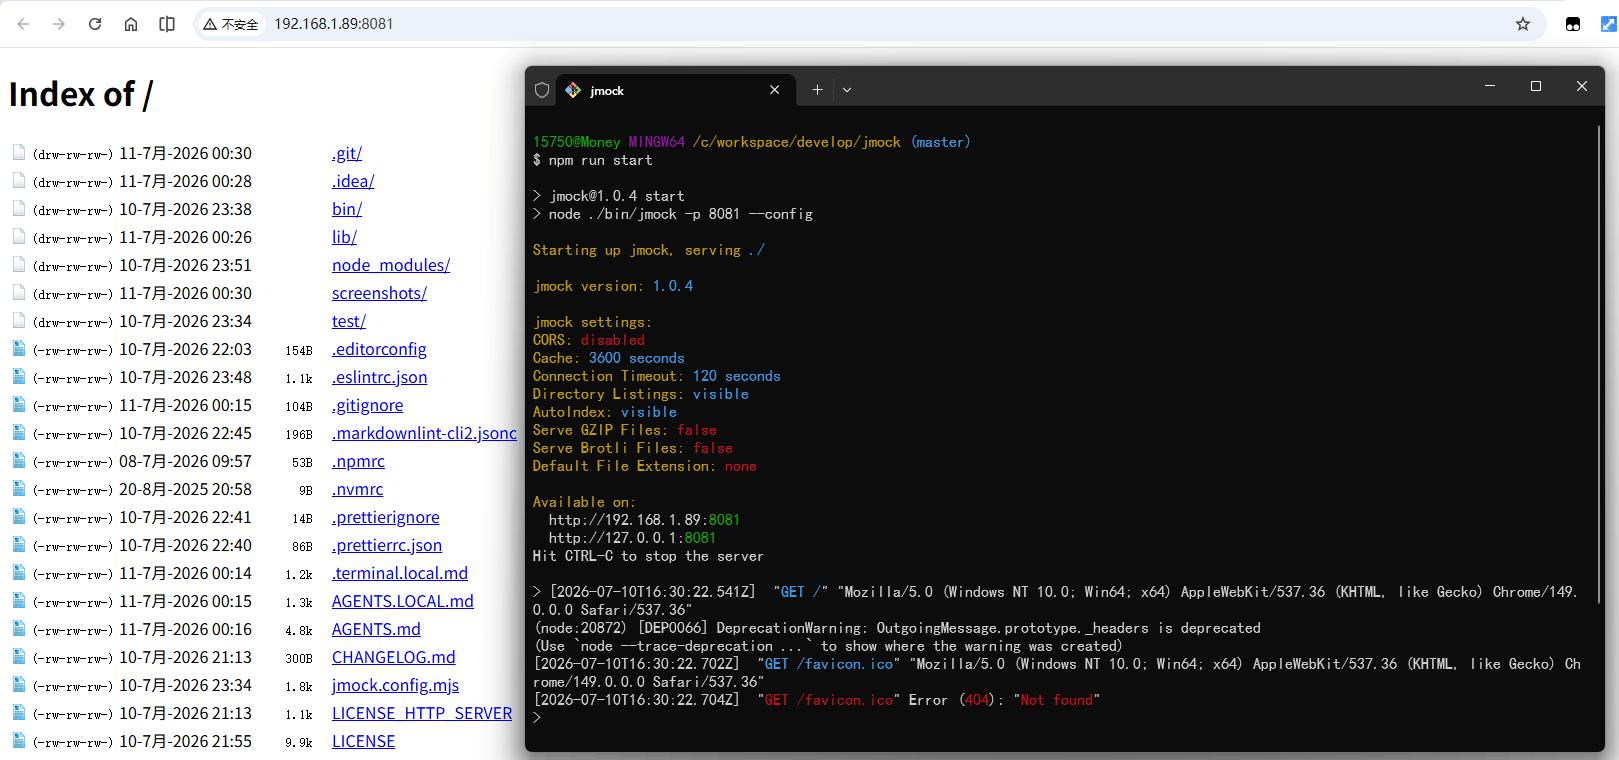
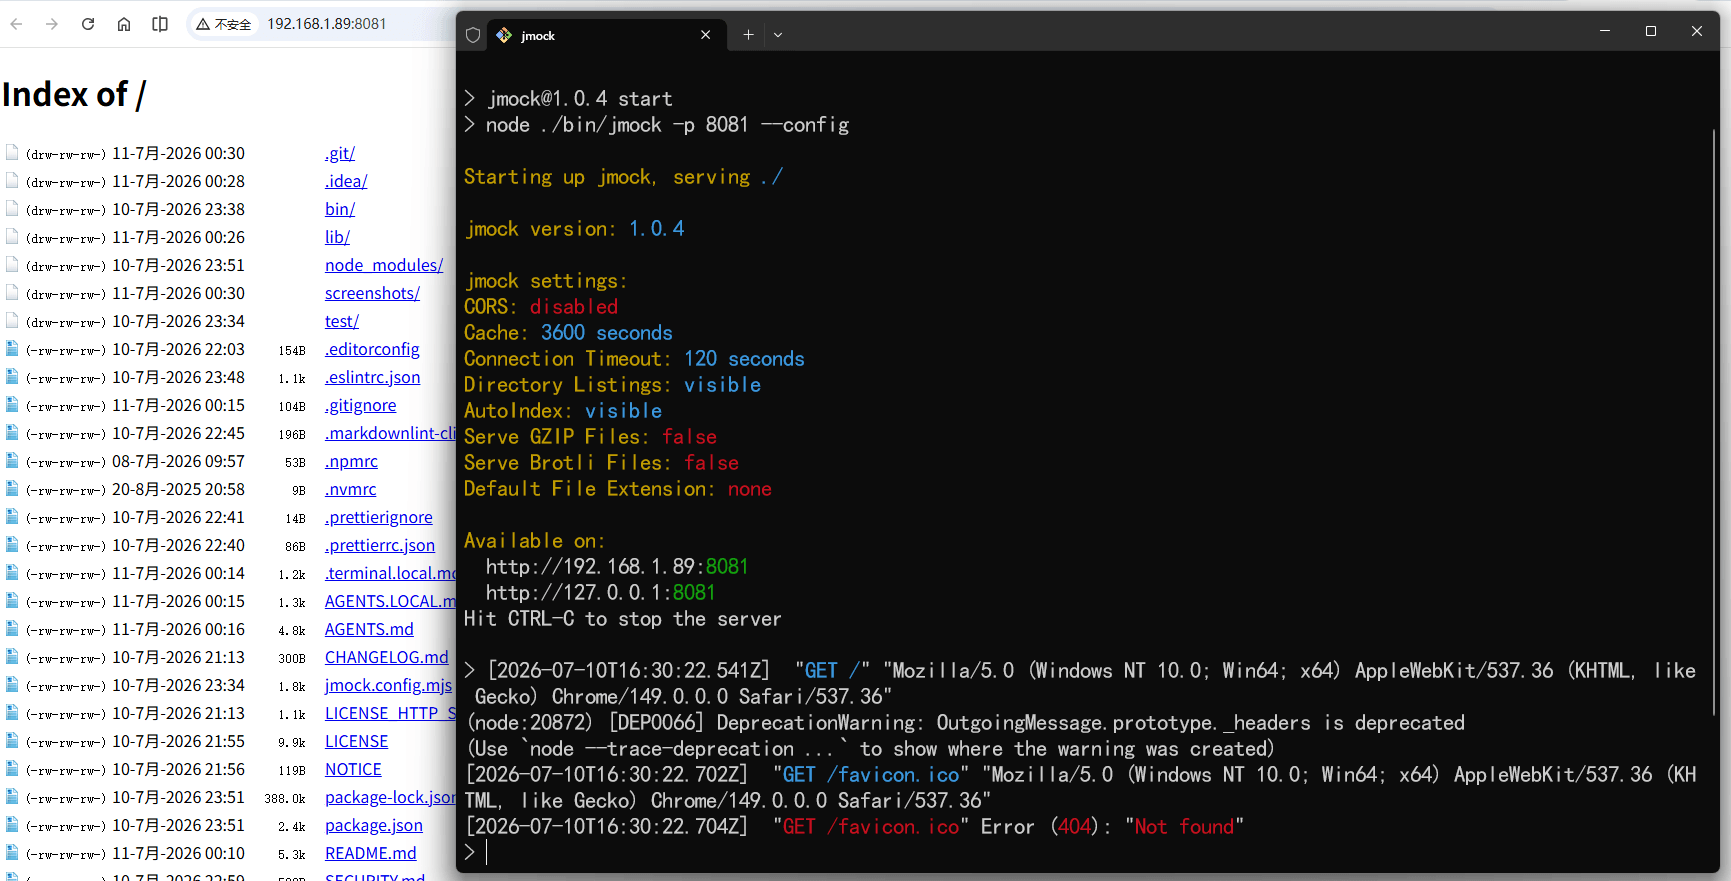
docs: 将截图移至标题下方并移除独立截图章节

Changed region(s): [[0.0, 0.0, 1.0, 1.0]]

diff --git a/README.md b/README.md
@@ -4,9 +4,9 @@
 
 # jmock
 
-一个简单易用的命令行 HTTP 服务器，支持数据模拟（Mock）、请求代理（Proxy）和静态文件服务。
+![项目截图](./screenshots/screenshot.png)
 
-![cute jmock](./screenshots/public.jpg)
+jmock 一个简单易用的命令行 HTTP 服务器，支持数据模拟（Mock）、请求代理（Proxy）和静态文件服务。
 
 ## 特性
 
@@ -207,10 +207,6 @@ npm run typecheck
 # 全部检查（格式化 + lint + 类型检查 + 测试）
 npm run lint
 ```
-
-## 截图
-
-![启动界面](./screenshots/screenshot.png)
 
 ## 致谢
 